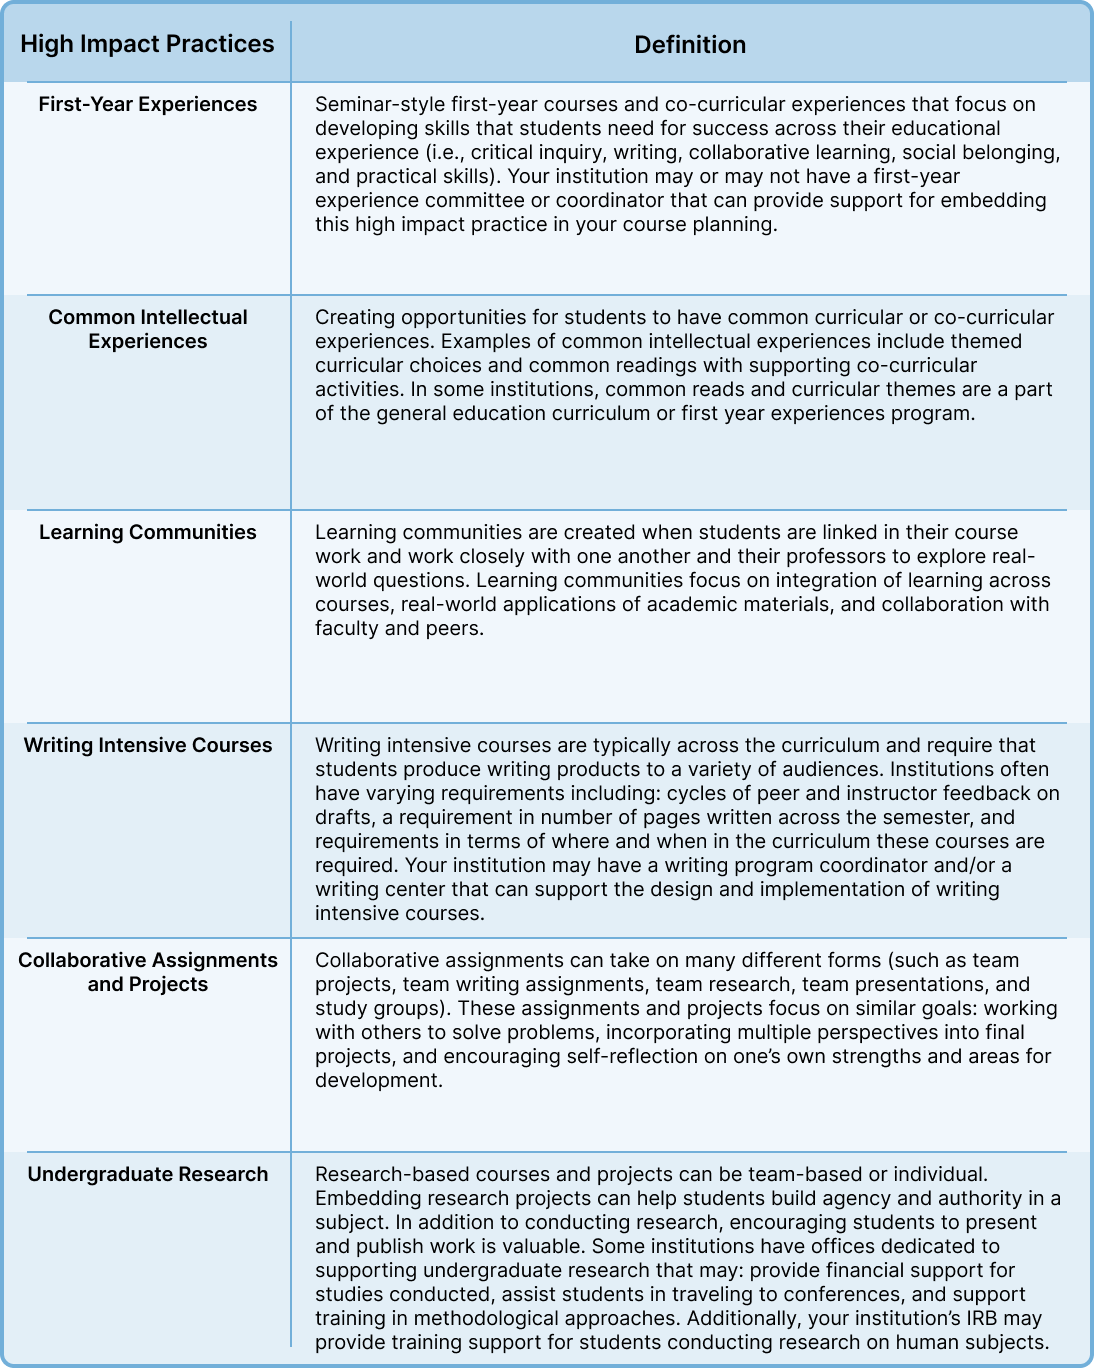
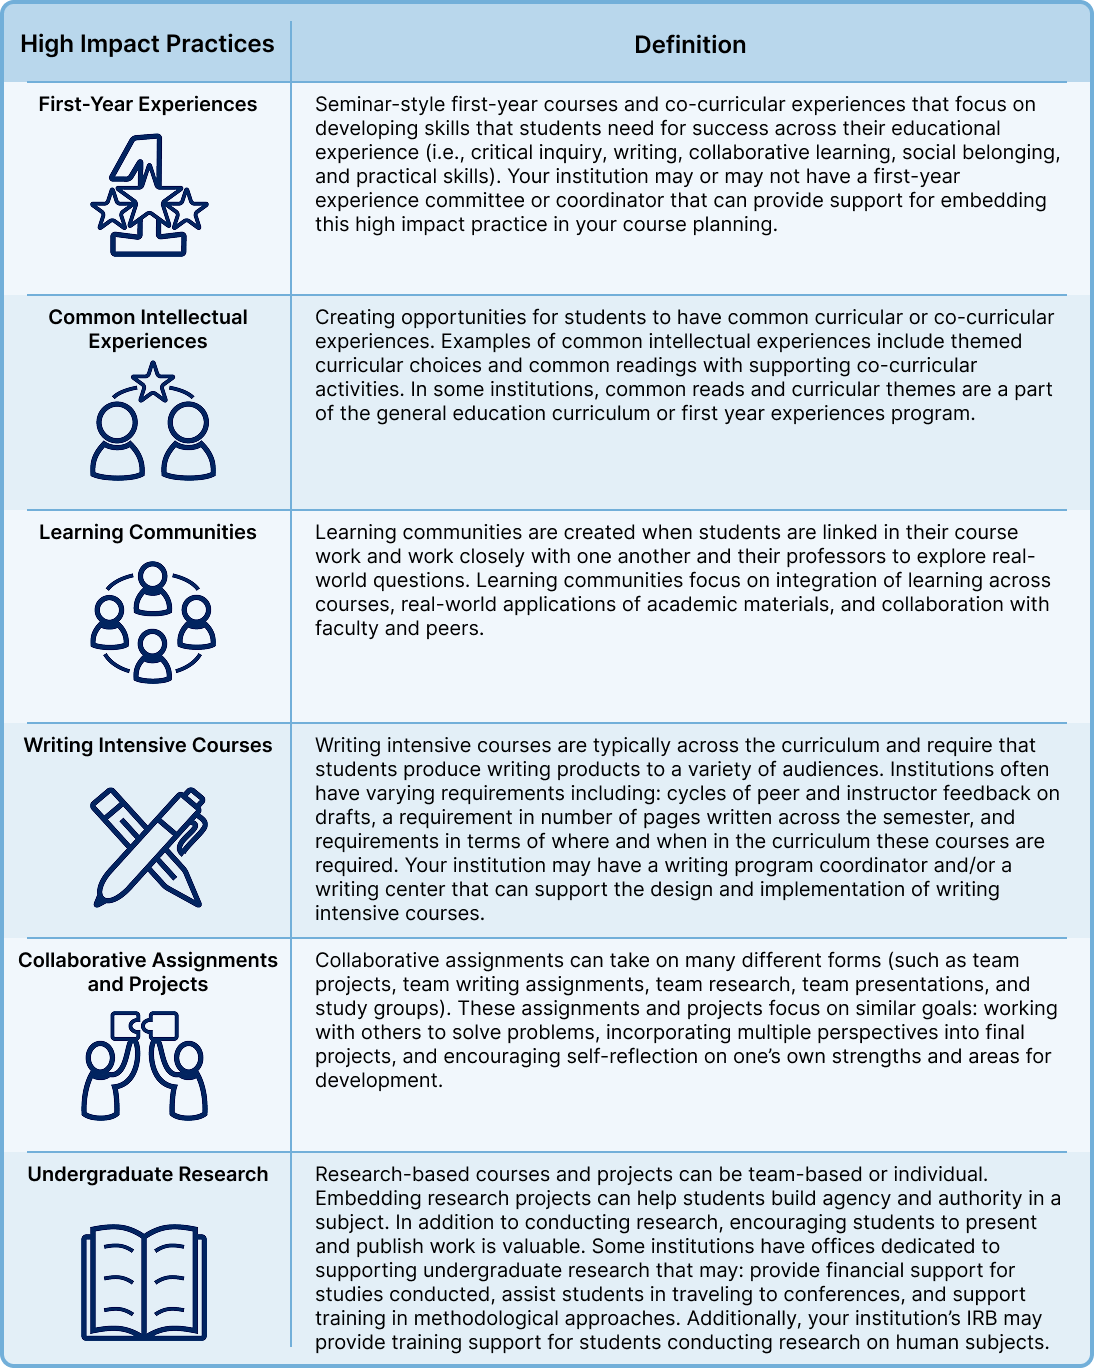
Completed HIPS Accordion
HIPS Accordion is completed

diff --git a/frontend/src/screens/SyllabusView/HIPS/HIPs.tsx b/frontend/src/screens/SyllabusView/HIPS/HIPs.tsx
@@ -1,23 +1,20 @@
-import React, { useEffect, useState } from "react";
-import { useNavigate, useLocation } from "react-router-dom";
-import { handleBack, handleNext } from "../../../components/Button/ButtonLogic";
+import {useNavigate, useLocation} from "react-router-dom";
+import {handleBack,handleNext} from "../../../components/Button/ButtonLogic";
 import AppLayout from "../../../ApplicationLayout/Applayout";
-import { loadSyllabusContent, SyllabusContent } from "../../../utils/loadSyllabusContent";
-import LearningOutcomesAccordion from "./LearningOutcomesAccordionStep1";
-import Step2Accordion from "./LearningOutcomesAccordionStep2";
-import Step3Accordion from "./LearningOutcomesAccordionStep3";
-import Step4Accordion from "./LearningOutcomesAccordionStep4";
-import './LearningOutcomes.css';
+import React, {useEffect, useState} from "react";
+import {loadSyllabusContent, SyllabusContent} from "../../../utils/loadSyllabusContent";
 import {
     createPreviewHandler,
     createSaveAndExitHandler,
     createSaveHandler
 } from "../../../utils/handlers/formHandlersFactory";
-import RedirectingModal from "../../../components/RedirectingModal/RedirectingModal";
-import ContentTable from "../../../components/Tables/competencyTable";
+import HIPSAccordion from "./HIPSAccordion";
+import SyllabusSectionAccordion from "../SyllabusComponents/SyllabusAccordion";
+import './HIPS.css'
 
 
-const LearningOutcomes: React.FC = () => {
+const HIPs = () => {
+    //Page Navigation for Buttons
     const navigate = useNavigate();
     const location = useLocation();
 
@@ -31,10 +28,10 @@ const LearningOutcomes: React.FC = () => {
     const [modalTitle, setModalTitle] = useState("");
     const [modalMessage, setModalMessage] = useState("");
 
-    // Load syllabus fields on mount
+
     useEffect(() => {
         const loadFields = async () => {
-            const data = await loadSyllabusContent("/data/learning_outcomes_.csv");
+            const data = await loadSyllabusContent("/data/HIPS.csv");
             setFields(data);
 
             // Load saved form data (if any)
@@ -54,8 +51,6 @@ const LearningOutcomes: React.FC = () => {
         loadFields();
     }, []);
 
-
-
     const groupedSections: Record<string, SyllabusContent[]> = fields.reduce((acc, field) => {
         if (!acc[field.section]) acc[field.section] = [];
         acc[field.section].push(field);
@@ -66,11 +61,7 @@ const LearningOutcomes: React.FC = () => {
     const handleFieldChange = (label: string, value: string) => {
         setFormData(prev => ({ ...prev, [label]: value }));
     };
-
-    const step1Fields = fields.filter(f => f.section === "Step 1: Competencies");
-    const step2Fields = fields.filter(f => f.section === "Step 2: Purpose and Application");
-    const step3Fields = fields.filter(f => f.section === "Step 3: Writing Course-specific Learning Outcomes");
-    const step4Fields = fields.filter(f => f.section === "Step 4: Summary")
+    const HIPSAccordionFields = fields.filter(f => f.section === "Step 1: Understanding High Impact Practices");
 
     const modalControls = {
         setVisible: setModalVisible,
@@ -86,6 +77,8 @@ const LearningOutcomes: React.FC = () => {
     const handleNextClick = () => handleNext(navigate, location.pathname, formData, courseID || undefined);
 
 
+
+
     return (
         <div>
             <AppLayout
@@ -95,43 +88,24 @@ const LearningOutcomes: React.FC = () => {
                 onSaveAndExit={handleSaveAndExit}
                 onPreview={handlePreviewClick}
             />
-
-            <form className="outcomes-container">
-                <LearningOutcomesAccordion
-                    sectionName="Step 1: Competencies"
-                    fields={step1Fields}
-                    formData={formData}
-                    onFieldChange={handleFieldChange}
+            <form className="HIPS-container">
+                <HIPSAccordion
+                    sectionName="Step 1: Understanding High Impact Practices"
+                    fields={HIPSAccordionFields}
                 />
-
-                <Step2Accordion
-                    sectionName="Step 2: Purpose and Application"
-                    fields={step2Fields}
-                />
-                <ContentTable/>
-
-                <Step3Accordion
-                    sectionName="Step 3: Writing Course-specific Learning Outcomes"
-                    fields={step3Fields}
-                    formData={formData}
-                    onFieldChange={handleFieldChange}
-                />
-                <Step4Accordion
-                    sectionName="Step 4: Summary"
-                    fields={step4Fields}
-                    formData={formData}
-                    onFieldChange={handleFieldChange}
-                />
+                {Object.entries(groupedSections).map(([section, sectionFields]) => (
+                    section !== "Step 1: Understanding High Impact Practices" && (
+                    <SyllabusSectionAccordion
+                        key = {section}
+                        sectionName={section}
+                        fields={sectionFields}
+                        formData={formData}
+                        onFieldChange={handleFieldChange}
+                    />
+                    )
+                ))}
             </form>
-
-            <RedirectingModal
-                visible={modalVisible}
-                status={modalStatus}
-                title={modalTitle}
-                message={modalMessage}
-            />
         </div>
     );
 };
-
-export default LearningOutcomes;
+export default HIPs;

diff --git a/frontend/src/screens/SyllabusView/HIPS/HIPSAccordion.tsx b/frontend/src/screens/SyllabusView/HIPS/HIPSAccordion.tsx
@@ -1,0 +1,47 @@
+import React from "react";
+import {FaAngleUp} from "react-icons/fa";
+import { SyllabusContent } from "../../../utils/loadSyllabusContent";
+import SafeIcon from "../../../utils/ComponentWrapper"
+import HIPSAlert from "../../../assets/images/HIPS_Alert.png"
+import HIPS_Table from "../../../assets/images/HIPS_Table.png"
+import './HIPSAccordion.css'
+
+
+interface Props{
+    sectionName: string;
+    fields: SyllabusContent[];
+}
+
+const HIPSAccordion: React.FC<Props> = ({sectionName, fields}) => {
+    const sectionFields = fields.filter(f => f.section === sectionName);
+
+    return (
+        <div className="syllabus-section-accordion">
+            <details open>
+                <summary className="syllabus-section-header">
+                    <span className="syllabus-section-title">{sectionName}</span>
+                    <SafeIcon Icon={FaAngleUp} className="syllabus-section-arrow"/>
+                </summary>
+
+                <div className="content-block">
+                    <img src={HIPSAlert} alt="bigger alert" className="bigger-alert"/>
+                </div>
+
+                <div className="section-split">
+                    <div className="section-label">
+                        <h3 className="section-heading">Write clear and measurable learning outcomes.</h3>
+                        <button className="resource-button">Link to CTLA↗</button>
+                    </div>
+
+                    <div className="section-body">
+                        <p className="explanation-paragraph">{sectionFields[0]?.content}</p>
+                    </div>
+                </div>
+
+                    <img src={HIPS_Table} alt="HIPSTable" className="hips-table"/>
+
+            </details>
+        </div>
+);
+};
+export default HIPSAccordion;

diff --git a/frontend/src/screens/SyllabusView/HIPS/HIPS.css b/frontend/src/screens/SyllabusView/HIPS/HIPS.css
@@ -1,0 +1,74 @@
+.HIPS-container {
+    max-width: 1200px;
+    margin: 0 auto;
+    padding: 2rem;
+}
+
+/* Section Accordion */
+.syllabus-section-accordion {
+    margin-bottom: 2rem;
+}
+
+.syllabus-section-header {
+    display: flex;
+    justify-content: space-between;
+    align-items: center;
+    background: #fff;
+    cursor: pointer;
+    padding: 0;
+}
+
+.syllabus-section-title {
+    flex: 1;
+    border-bottom: 2px solid #c5c5c5;
+    font-size: 1.8rem;
+    font-weight: 700;
+    color: #002e5d;
+    padding-bottom: 0.25rem;
+}
+
+.syllabus-section-arrow {
+    font-size: 1.2rem;
+    color: #002e5d;
+    transition: transform 0.3s ease;
+}
+
+details[open] .syllabus-section-arrow {
+    transform: rotate(180deg);
+}
+
+.syllabus-section-content {
+    padding-top: 1rem;
+    display: flex;
+    flex-direction: column;
+    gap: 1.5rem;
+}
+
+/* Field wrapper */
+.syllabus-form-row {
+    display: flex;
+    flex-direction: column;
+    gap: 0.3rem;
+}
+
+/* Static text (helper) */
+.syllabus-text {
+    font-size: 1.1rem;
+    line-height: 1.5;
+    color: #222;
+}
+
+/* Question label */
+.syllabus-label {
+    font-weight: 600;
+    font-size: 1.1rem;
+}
+
+
+/* Word count */
+.syllabus-wordcount {
+    font-size: 0.85rem;
+    color: #666;
+    text-align: right;
+    margin-top: 0.25rem;
+}

diff --git a/frontend/src/navigation/AppRoutes.tsx b/frontend/src/navigation/AppRoutes.tsx
@@ -21,7 +21,7 @@ import Assessment from "../screens/SyllabusView/Assessment";
 import BasicInfo from "../screens/SyllabusView/BasicInformation/BasicInfo";
 import Description from "../screens/SyllabusView/Description/Description";
 import LearningOutcomes from "../screens/SyllabusView/Learning Outcomes/LearningOutcomes";
-import HIPs from "../screens/SyllabusView/HIPs";
+import HIPs from "../screens/SyllabusView/HIPS/HIPs";
 import CourseSchedule from "../screens/SyllabusView/CourseSchedule";
 import LearningResources from "../screens/SyllabusView/LearningResources/LearningResources";
 import Checklist from "../screens/SyllabusView/Checklist";

diff --git a/frontend/src/screens/SyllabusView/HIPS/HIPSAccordion.css b/frontend/src/screens/SyllabusView/HIPS/HIPSAccordion.css
@@ -1,0 +1,32 @@
+.section-split {
+    display: flex;
+    align-items: center;
+    gap: 2rem;
+    margin-bottom: 2.5rem;
+}
+
+.section-label {
+    flex: 0 0 280px;
+}
+
+.section-heading {
+    font-size: 1.2rem;
+    font-weight: bold;
+    color: #003366;
+    margin-top: 0;
+}
+
+/* Right: text and images */
+.section-body {
+    flex: 1;
+    display: flex;
+    flex-direction: column;
+    justify-content: center;
+    gap: 1rem;
+}
+
+.explanation-paragraph {
+    margin: 0;
+    font-size: 1.1rem;
+    line-height: 1.6;
+}

diff --git a/frontend/src/screens/SyllabusView/Learning Outcomes/LearningOutcomesAccordionStep2.tsx b/frontend/src/screens/SyllabusView/Learning Outcomes/LearningOutcomesAccordionStep2.tsx
@@ -33,7 +33,6 @@ const Step2Accordion: React.FC<Props> = ({ sectionName, fields }) => {
                     </div>
 
                     <p className="step2-description">{getByIndex(2)}</p>
-                    <ContentTable/>
                 </div>
             </details>
         </div>

diff --git a/frontend/src/components/Tables/competencyTable.js b/frontend/src/components/Tables/competencyTable.js
@@ -129,7 +129,7 @@ export function CompetencyTable1() {
 
   return create_table('competency-table1', columns, rows, 6);
 }
-export default CompetencyTable1;
+export default CompetencyTable2;
 
 // generate the second Competency Table
 export function CompetencyTable2() {
